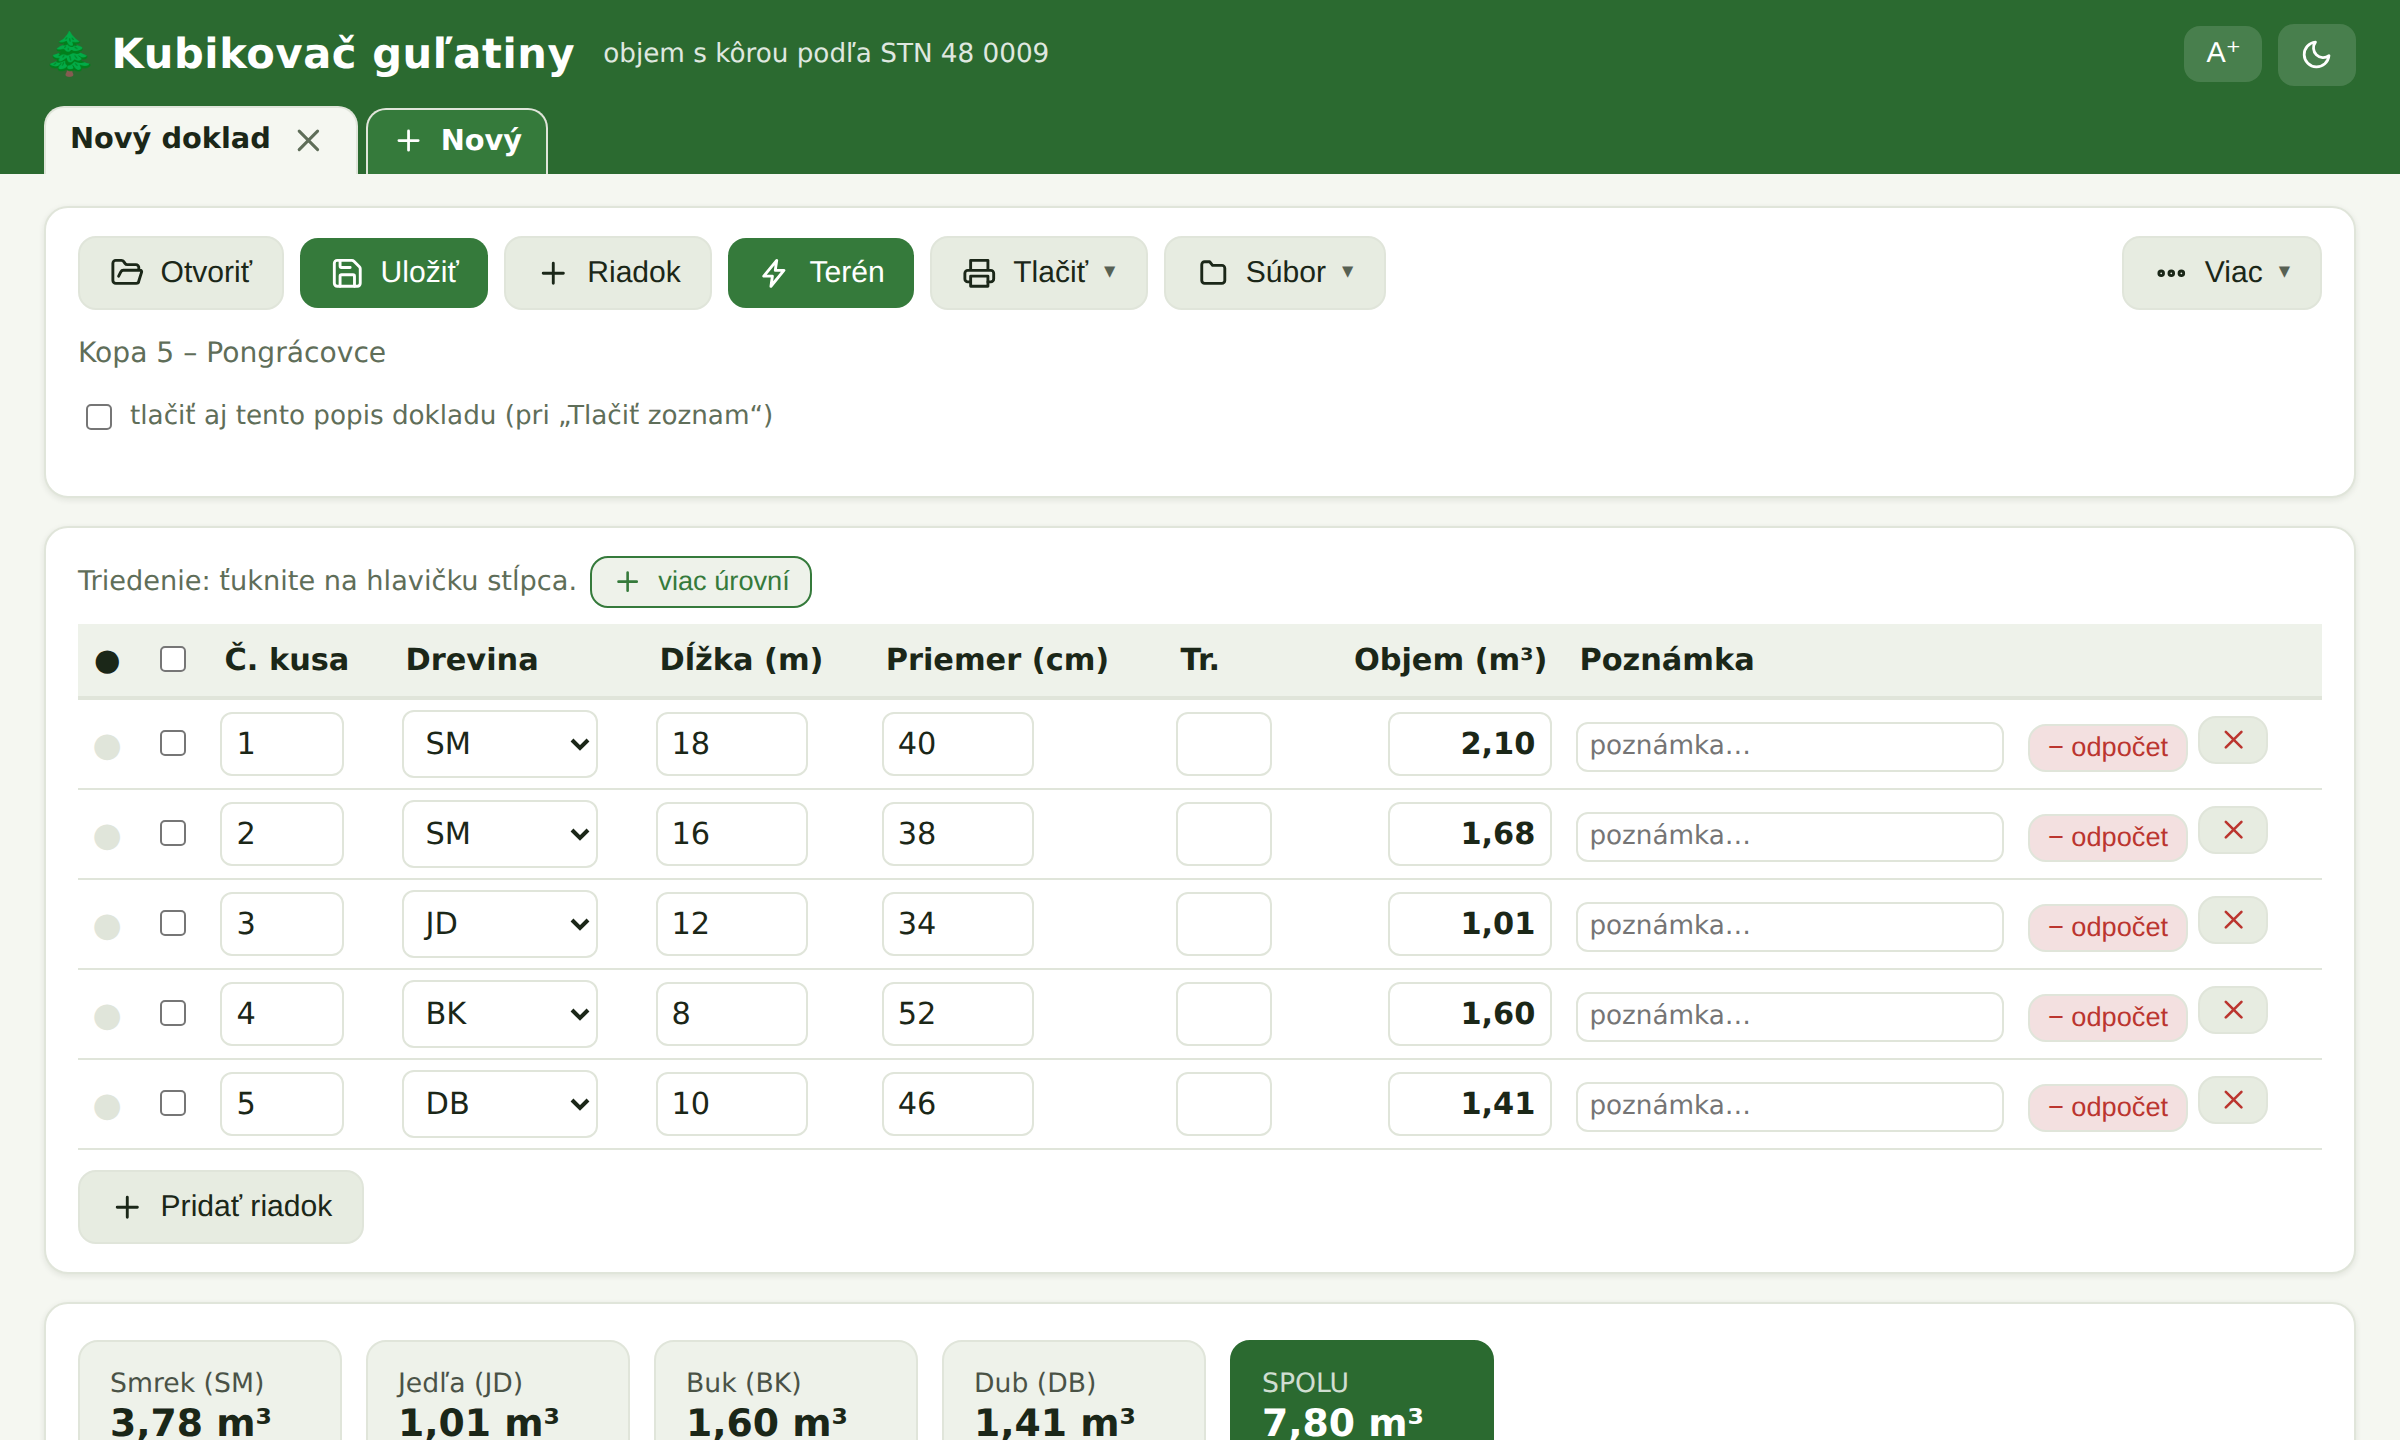
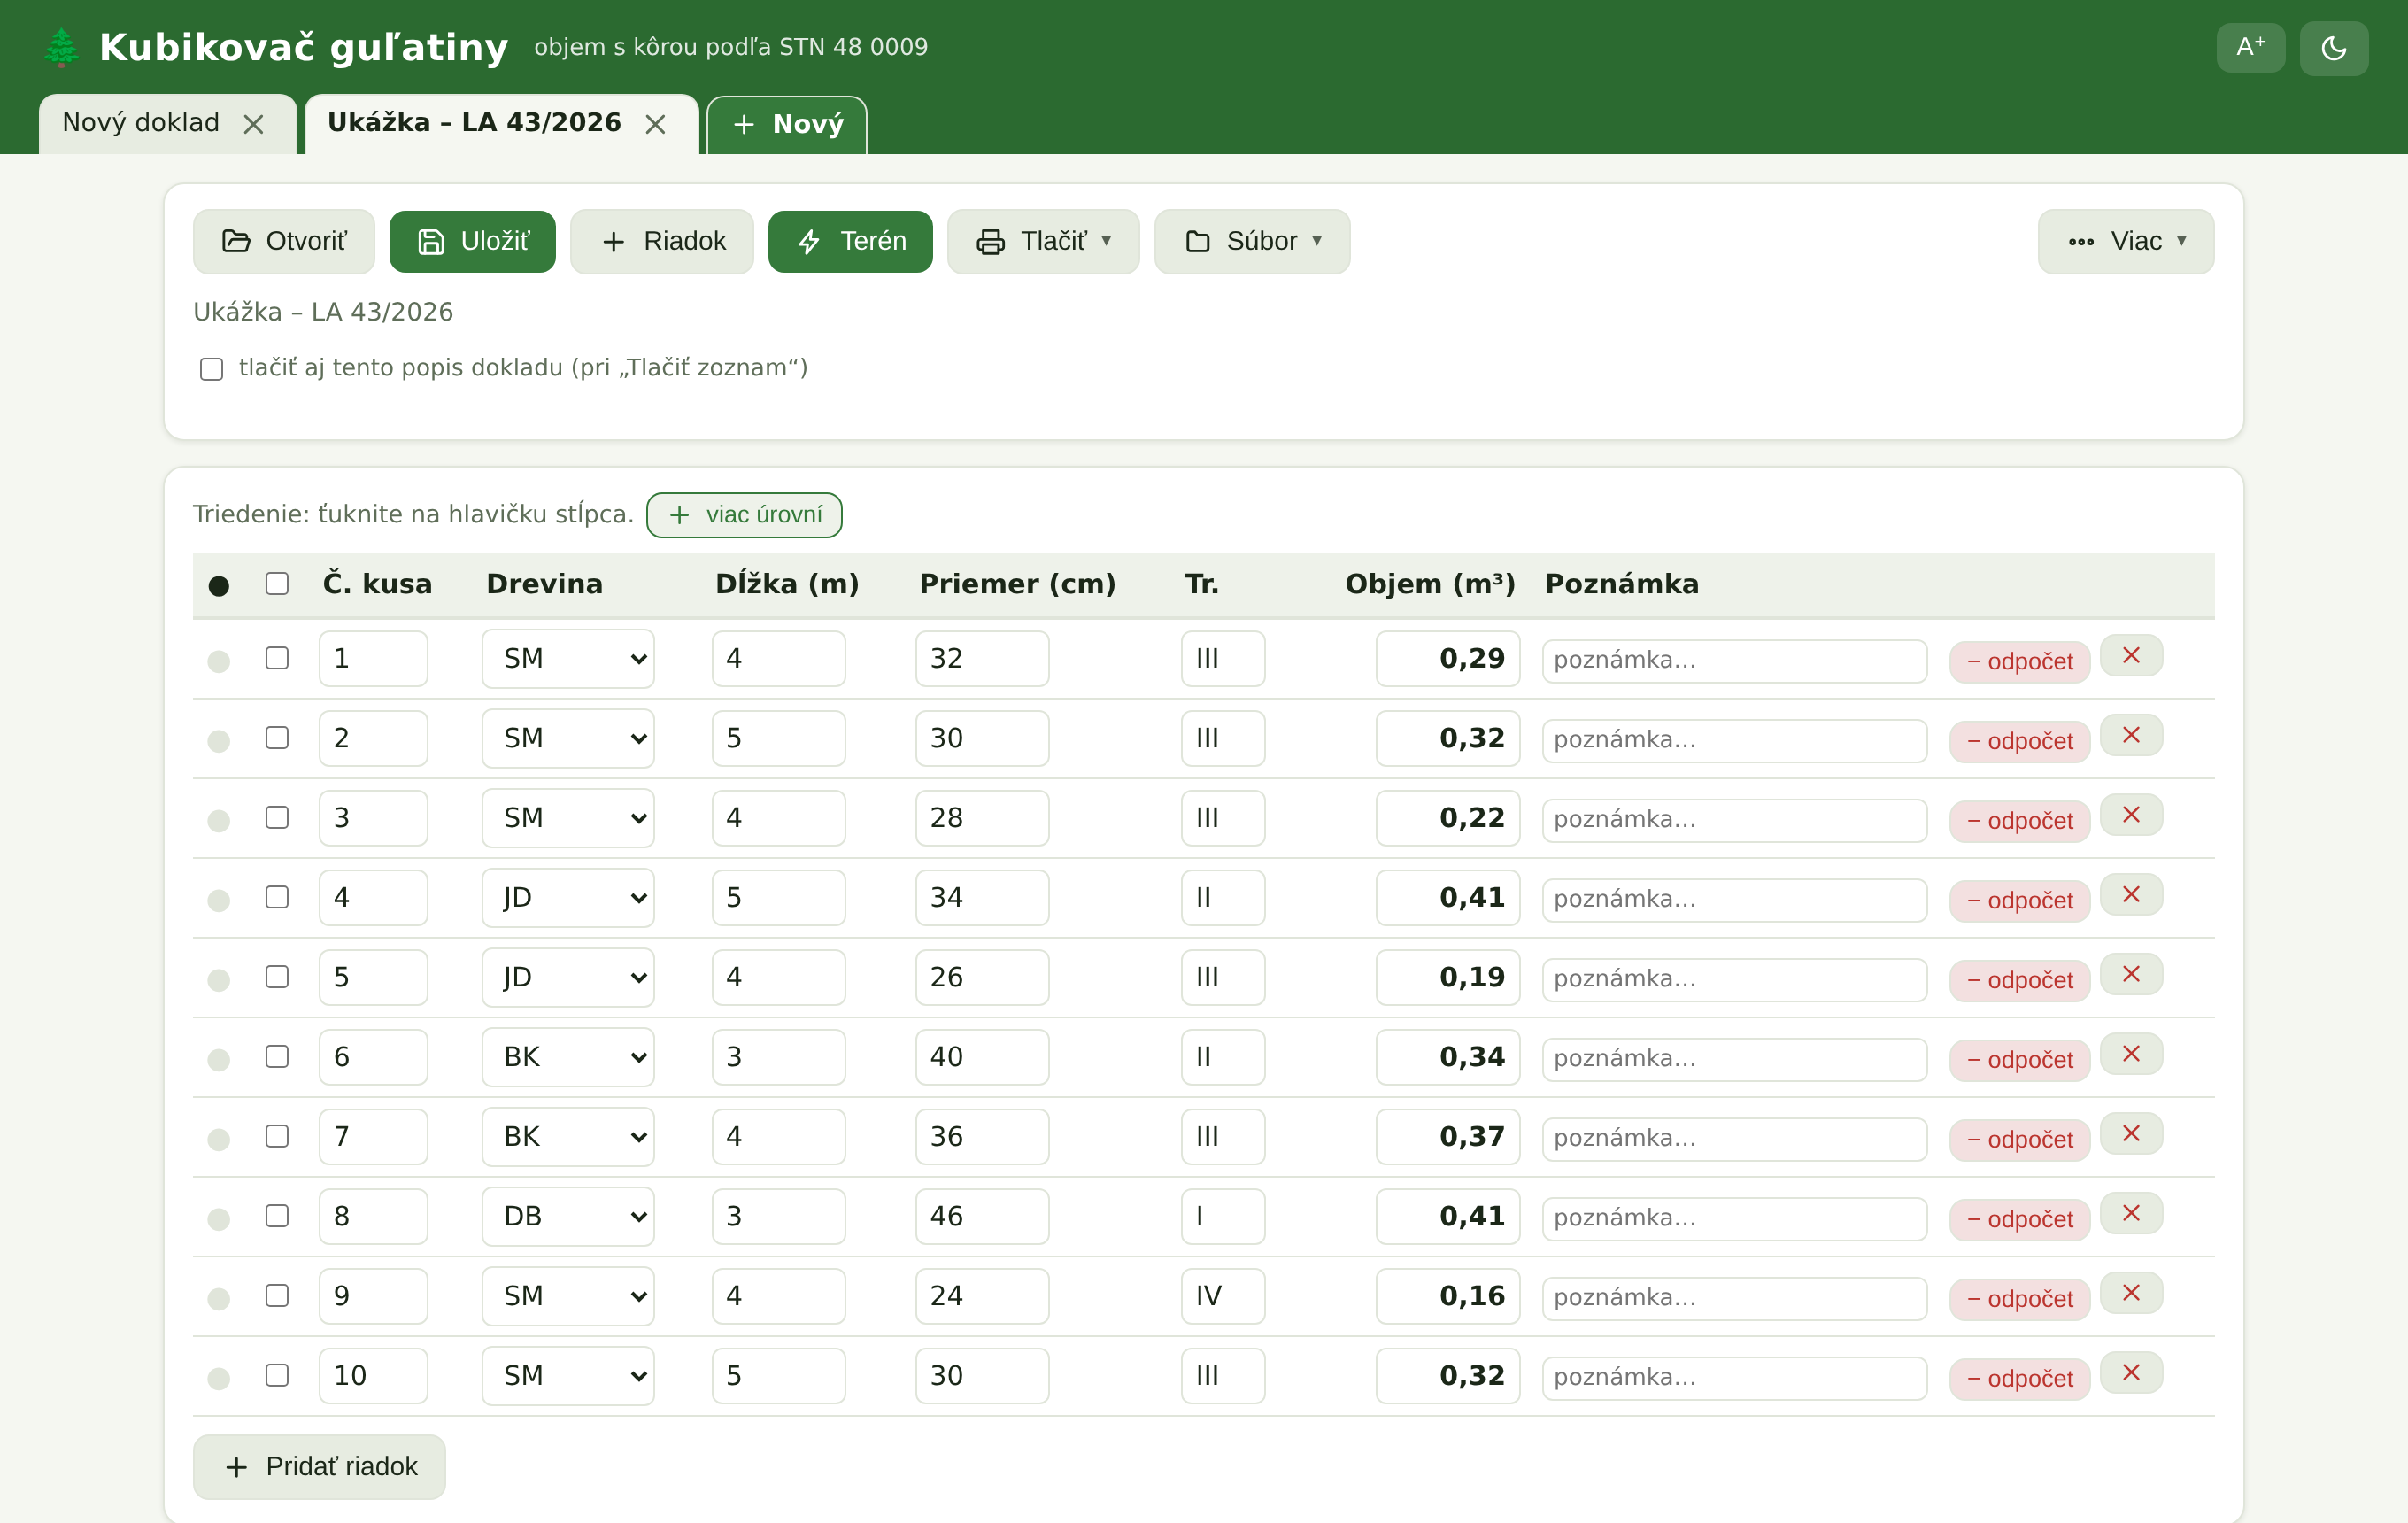
Predajná stránka: ukážka mobilného terénu, LA 43 na šírku aj na výšku (bez osobných údajov), rozšírené funkcie (odpočty, prídavok 1 %, cenník, triedenie, tmavý režim, offline)

diff --git a/index.html b/index.html
@@ -78,6 +78,11 @@
   .galeria figure{margin:0}
   .galeria img{width:100%;border-radius:12px;border:1px solid var(--ciara);box-shadow:var(--tien);display:block;background:#fff}
   .galeria figcaption{text-align:center;color:var(--seda);font-size:.92rem;margin-top:10px}
+  .galeria.dvojica{grid-template-columns:1fr 1fr;max-width:1040px;align-items:start}
+  .ukazka-nadpis{text-align:center;font-size:1.15rem;margin:38px 0 16px}
+  .mobilUkazka{max-width:320px;margin:0 auto}
+  .mobilUkazka img{width:100%;border-radius:20px;border:1px solid var(--ciara);box-shadow:var(--tien);display:block;background:#fff}
+  .mobilUkazka figcaption{text-align:center;color:var(--seda);font-size:.92rem;margin-top:12px}
   /* riešenia na mieru */
   .namieru{text-align:center}
   /* pätka */
@@ -87,6 +92,7 @@
   footer .odd{margin-left:auto}
   @media (max-width:760px){
     .hero h1{font-size:1.9rem}.funkcie,.kroky{grid-template-columns:1fr}
+    .galeria.dvojica{grid-template-columns:1fr}
     .nahlad{margin-top:-26px}
   }
 </style>
@@ -118,47 +124,85 @@
     <div class="karta">
       <span class="znak"><svg class="ic"><use href="#i-doklad"/></svg></span>
       <h3>Podľa STN 48 0009</h3>
-      <p>Objem guľatiny meranej s kôrou pre smrek, jedľu, borovicu, smrekovec, buk, dub aj topoľ.</p>
-    </div>
-    <div class="karta">
-      <span class="znak"><svg class="ic"><use href="#i-tlac"/></svg></span>
-      <h3>Úradný doklad LA 43</h3>
-      <p>Vytlačíte Doklad o pôvode dreva aj pracovný zoznam — pripravené na odovzdanie.</p>
+      <p>Objem guľatiny meranej s kôrou pre smrek, jedľu, borovicu, smrekovec, buk, dub, topoľ aj príbuzné dreviny.</p>
     </div>
     <div class="karta">
       <span class="znak"><svg class="ic"><use href="#i-teren"/></svg></span>
       <h3>Terénny režim</h3>
-      <p>Veľké polia na rýchle zadávanie v lese — rukavice a slnko nevadia. Beží aj bez internetu.</p>
+      <p>Veľké polia na rýchle zadávanie v lese, bežiaci súčet objemu a kusov. Rukavice ani slnko nevadia.</p>
     </div>
     <div class="karta">
-      <span class="znak"><svg class="ic"><use href="#i-graf"/></svg></span>
-      <h3>Doklady a štatistiky</h3>
-      <p>Archív dokladov, súčty podľa drevín, cenník €/m³ a prehľady naprieč zákazkami.</p>
+      <span class="znak"><svg class="ic"><use href="#i-tlac"/></svg></span>
+      <h3>Úradný doklad LA 43</h3>
+      <p>Doklad o pôvode dreva na jeden klik — na šírku aj na výšku, vytlačíte alebo uložíte do PDF.</p>
     </div>
     <div class="karta">
       <span class="znak"><svg class="ic"><use href="#i-skratit"/></svg></span>
-      <h3>Odpočty a korekcie</h3>
-      <p>Hniloba, odrezky, skrátenie dĺžok — čistý objem a všetko prehľadne zdokladované.</p>
+      <h3>Odpočty hniloby a odrezkov</h3>
+      <p>Zadáte chybnú časť kusa a program ukáže hrubý aj čistý objem po odpočte — všetko zdokladované.</p>
+    </div>
+    <div class="karta">
+      <span class="znak"><svg class="ic"><use href="#i-percent"/></svg></span>
+      <h3>Prídavok na dĺžku 1 %</h3>
+      <p>Voliteľne odpočíta zákonnú nadmieru dĺžky (STN) — objem sa počíta z krátenej dĺžky, presne a férovo.</p>
+    </div>
+    <div class="karta">
+      <span class="znak"><svg class="ic"><use href="#i-euro"/></svg></span>
+      <h3>Cenník a podklad k fakturácii</h3>
+      <p>Zadáte cenu €/m³ pre každú drevinu a program spočíta cenu kusa aj celého dokladu.</p>
+    </div>
+    <div class="karta">
+      <span class="znak"><svg class="ic"><use href="#i-graf"/></svg></span>
+      <h3>Súčty a štatistiky</h3>
+      <p>Priebežné súčty podľa drevín, počet kusov, objem a cena — prehľad naprieč zákazkami.</p>
+    </div>
+    <div class="karta">
+      <span class="znak"><svg class="ic"><use href="#i-sort"/></svg></span>
+      <h3>Triedenie na viac úrovní</h3>
+      <p>Zoradíte kusy podľa dreviny, dĺžky, priemeru či objemu — aj kombinovane, jedným ťuknutím.</p>
+    </div>
+    <div class="karta">
+      <span class="znak"><svg class="ic"><use href="#i-zalozky"/></svg></span>
+      <h3>Viac dokladov naraz</h3>
+      <p>Otvorené doklady v záložkách, archív s vyhľadávaním a uložením — nič sa nestratí.</p>
+    </div>
+    <div class="karta">
+      <span class="znak"><svg class="ic"><use href="#i-tema"/></svg></span>
+      <h3>Tmavý režim a veľké písmo</h3>
+      <p>Prehľadné aj na ostrom slnku alebo pre slabší zrak — jedným tlačidlom zväčšíte celé ovládanie.</p>
+    </div>
+    <div class="karta">
+      <span class="znak"><svg class="ic"><use href="#i-offline"/></svg></span>
+      <h3>Funguje offline, dáta ostávajú u vás</h3>
+      <p>Bez internetu, bez cloudu — všetko počíta priamo vo vašom zariadení. Aktualizácie zdarma.</p>
     </div>
     <div class="karta">
       <span class="znak"><svg class="ic"><use href="#i-zar"/></svg></span>
       <h3>Windows · Android · Linux</h3>
-      <p>Ten istý program na počítači aj v mobile. Doklady prenesiete medzi zariadeniami.</p>
+      <p>Ten istý program na počítači aj v mobile. Doklady jednoducho prenesiete medzi zariadeniami.</p>
     </div>
   </div>
 </section>
 
 <section class="obal">
   <h2>Ukážky z programu</h2>
-  <p class="podnadpis">Od zadávania kusov v teréne po hotový úradný doklad.</p>
-  <div class="galeria">
+  <p class="podnadpis">Od rýchleho zadávania kusov v teréne až po hotový úradný doklad.</p>
+
+  <h3 class="ukazka-nadpis">Terénny režim v mobile</h3>
+  <figure class="mobilUkazka">
+    <img src="obrazky/mobil.png" alt="Terénny režim mobilnej aplikácie Kubikovač">
+    <figcaption>Veľké polia, výber dreviny a bežiaci súčet objemu — kus zadáte aj jednou rukou.</figcaption>
+  </figure>
+
+  <h3 class="ukazka-nadpis">Úradný doklad LA 43 — na šírku aj na výšku</h3>
+  <div class="galeria dvojica">
     <figure>
-      <img src="obrazky/la43.png" alt="Doklad o pôvode dreva LA 43 vytlačený z programu">
-      <figcaption>Úradný doklad LA 43 (Doklad o pôvode dreva) — pripravený na tlač</figcaption>
+      <img src="obrazky/la43_sirka.png" alt="Doklad o pôvode dreva LA 43 na šírku">
+      <figcaption>Na šírku — 4 stĺpce kusov na stranu</figcaption>
     </figure>
     <figure>
-      <img src="obrazky/odpocet.png" alt="Odpočet odrezanej hniloby v tabuľke">
-      <figcaption>Odpočet odrezku/hniloby — program ukáže hrubý aj čistý objem</figcaption>
+      <img src="obrazky/la43_vyska.png" alt="Doklad o pôvode dreva LA 43 na výšku s 3 stĺpcami">
+      <figcaption>Na výšku — 3 stĺpce kusov na stranu</figcaption>
     </figure>
   </div>
 </section>
@@ -236,6 +280,12 @@
   <symbol id="i-skratit" viewBox="0 0 24 24"><circle cx="6" cy="6" r="3"/><circle cx="6" cy="18" r="3"/><path d="M20 4 8.5 15.5M14.5 14.5 20 20M8.5 8.5 12 12"/></symbol>
   <symbol id="i-zar" viewBox="0 0 24 24"><rect x="6" y="2" width="12" height="20" rx="2"/><path d="M11 18h2"/></symbol>
   <symbol id="i-ok" viewBox="0 0 24 24"><path d="M4 12l5 5L20 6"/></symbol>
+  <symbol id="i-percent" viewBox="0 0 24 24"><path d="M6 18 18 6"/><circle cx="7.5" cy="7.5" r="2.5"/><circle cx="16.5" cy="16.5" r="2.5"/></symbol>
+  <symbol id="i-euro" viewBox="0 0 24 24"><path d="M17.5 6.3A6 6 0 1 0 17.5 17.7"/><path d="M4 10.5h9M4 13.5h8"/></symbol>
+  <symbol id="i-sort" viewBox="0 0 24 24"><path d="M6 4v15M6 19l-2.5-2.5M6 19l2.5-2.5"/><path d="M12 6h9M12 11h6M12 16h3"/></symbol>
+  <symbol id="i-zalozky" viewBox="0 0 24 24"><path d="M4 8h5l2-2h9v13a1 1 0 0 1-1 1H5a1 1 0 0 1-1-1z"/><path d="M4 11h16"/></symbol>
+  <symbol id="i-tema" viewBox="0 0 24 24"><path d="M20 13.5A8 8 0 1 1 10.5 4a6.3 6.3 0 0 0 9.5 9.5z"/></symbol>
+  <symbol id="i-offline" viewBox="0 0 24 24"><path d="M12 3l7 2.5v5.2c0 4.3-3 7.6-7 9.3-4-1.7-7-5-7-9.3V5.5z"/><path d="M9.3 12l1.9 1.9L15 10"/></symbol>
   <symbol id="i-win" viewBox="0 0 24 24"><path d="M3 5.5 10.5 4v7.5H3z M11.5 3.8 21 2.5V11.5h-9.5z M3 12.5h7.5V20L3 18.5z M11.5 12.5H21V21.5l-9.5-1.3z" fill="currentColor" stroke="none"/></symbol>
   <symbol id="i-and" viewBox="0 0 24 24"><path d="M5 10a1 1 0 0 1 2 0v6a1 1 0 0 1-2 0z M17 10a1 1 0 0 1 2 0v6a1 1 0 0 1-2 0z M7 9h10v9a1 1 0 0 1-1 1H8a1 1 0 0 1-1-1z M9 19v2a1 1 0 0 0 2 0v-2 M13 19v2a1 1 0 0 0 2 0v-2 M8 8a4 4 0 0 1 8 0"/><path d="M9 5.5 8 4M15 5.5 16 4"/></symbol>
   <symbol id="i-lin" viewBox="0 0 24 24"><path d="M9 4a3 3 0 0 1 6 0c0 3 2 5 2 8s-2 6-5 6-5-3-5-6 2-5 2-8z"/><path d="M9.5 9h.01M14.5 9h.01"/></symbol>